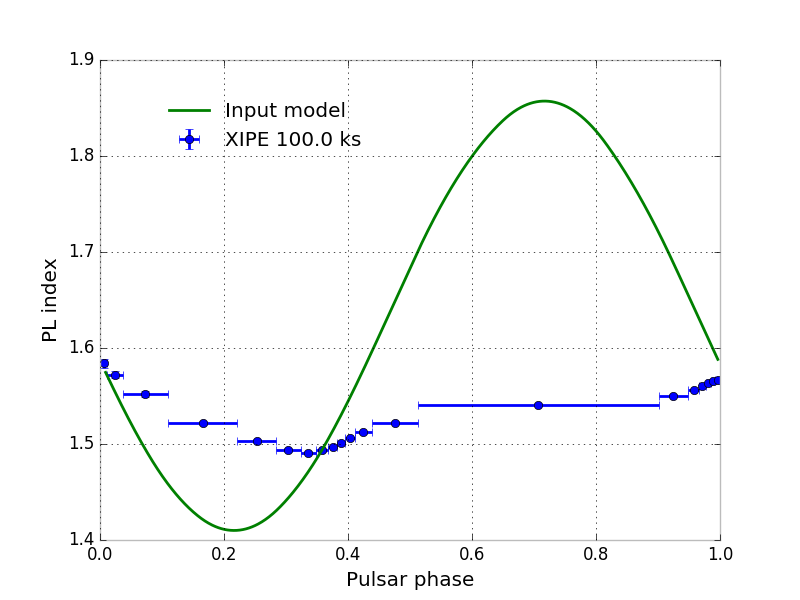
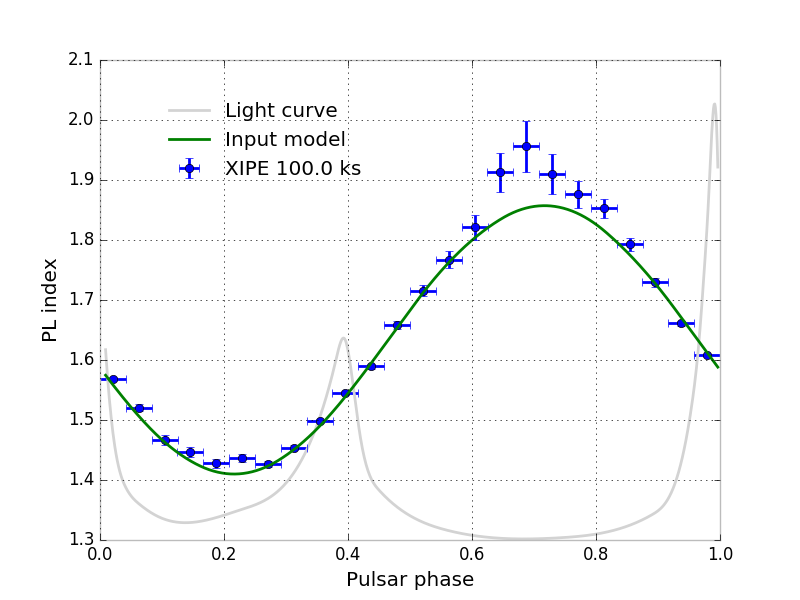
Crab pulsar example revamped.

diff --git a/ximpol/examples/crab_pulsar.py b/ximpol/examples/crab_pulsar.py
@@ -38,7 +38,8 @@ OUT_FILE_PATH_BASE = os.path.join(XIMPOL_DATA, 'crab_pulsar')
 EVT_FILE_PATH = '%s.fits' % OUT_FILE_PATH_BASE
 ANALYSIS_FILE_PATH = '%s_analysis.txt' % OUT_FILE_PATH_BASE
 SIM_DURATION = 100000.
-NUM_PHASE_BINS = 20
+NUM_PHASE_BINS = 25
+EQP_BINNING = False
 PHASE_BINNING = None
 E_BINNING = [1., 10.]
 OUTPUT_FOLDER = os.path.join(XIMPOL_DOC, 'figures', 'showcase')
@@ -68,11 +69,13 @@ def _phase_binning():
     """Read the input event file and create an equipopulated binning in the
     pulsar phase.
     """
-    evt_file = xEventFile(EVT_FILE_PATH)
-    phase = evt_file.event_data['PHASE']
-    bins = xEventBinningBase.equipopulated_binning(NUM_PHASE_BINS, phase, 0, 1)
-    logger.info('Phase binning: %s' % bins)
-    return bins
+    if EQP_BINNING:
+        evt_file = xEventFile(EVT_FILE_PATH)
+        phase = evt_file.event_data['PHASE']
+        return xEventBinningBase.equipopulated_binning(NUM_PHASE_BINS, phase,
+                                                       0., 1.)
+    else:
+        return numpy.linspace(0., 1., NUM_PHASE_BINS)
 
 
 def generate():
@@ -128,26 +131,27 @@ def plot(save=False):
     """
     sim_label = 'XIPE %s ks' % (SIM_DURATION/1000.)
     mod_label = 'Input model'
-    lc_label = 'Input PL norm.'
+    lc_label = 'Light curve'
     _phase, _phase_err, _pol_deg, _pol_deg_err, _pol_angle,\
         _pol_angle_err, _index, _index_err, _norm,\
         _norm_err = numpy.loadtxt(ANALYSIS_FILE_PATH, unpack=True)
     plt.figure('Polarization degree')
+    pl_normalization_spline.plot(scale=0.12, show=False, color='lightgray',
+                                 label=lc_label)
     plt.errorbar(_phase, _pol_deg, xerr=_phase_err, yerr=_pol_deg_err, fmt='o',
                  label=sim_label)
     pol_degree_spline.plot(show=False, label=mod_label)
-    pl_normalization_spline.plot(scale=0.09, show=False, color='lightgray',
-                                 label=lc_label)
-    plt.axis([None, None, 0., 0.4])
+    plt.axis([0., 1., 0., 0.5])
     plt.legend(bbox_to_anchor=(0.45, 0.95))
     if save:
         save_current_figure('crab_polarization_degree', OUTPUT_FOLDER, False)
     plt.figure('Polarization angle')
+    pl_normalization_spline.plot(scale=0.4, offset=1.25, show=False,
+                                 color='lightgray', label=lc_label)
     plt.errorbar(_phase, _pol_angle, xerr=_phase_err, yerr=_pol_angle_err,
                  fmt='o', label=sim_label)
     pol_angle_spline.plot(show=False, label=mod_label)
-    pl_normalization_spline.plot(scale=0.6, offset=1.25, show=False,
-                                 color='lightgray', label=lc_label)
+    plt.axis([0., 1., 1.25, 3.])
     plt.legend(bbox_to_anchor=(0.45, 0.95))
     if save:
         save_current_figure('crab_polarization_angle', OUTPUT_FOLDER, False)
@@ -155,13 +159,17 @@ def plot(save=False):
     plt.errorbar(_phase, _norm, xerr=_phase_err, yerr=_norm_err, fmt='o',
                  label=sim_label)
     pl_normalization_spline.plot(show=False, label=mod_label)
+    plt.axis([0., 1., None, None])
     plt.legend(bbox_to_anchor=(0.45, 0.95))
     if save:
         save_current_figure('crab_pl_norm', OUTPUT_FOLDER, False)
     plt.figure('PL index')
+    pl_normalization_spline.plot(scale=0.18, offset=1.3, show=False,
+                                 color='lightgray', label=lc_label)
     plt.errorbar(_phase, _index, xerr=_phase_err, yerr=_index_err, fmt='o',
                  label=sim_label)
     pl_index_spline.plot(show=False, label=mod_label)
+    plt.axis([0., 1., 1.3, 2.1])
     plt.legend(bbox_to_anchor=(0.45, 0.95))
     if save:
         save_current_figure('crab_pl_index', OUTPUT_FOLDER, False)
@@ -183,4 +191,4 @@ def run(save_plots=False):
 
 
 if __name__ == '__main__':
-    run(True)
+    run(save_plots=True)

diff --git a/doc/showcase.rst b/doc/showcase.rst
@@ -109,11 +109,14 @@ Full source model definition in `ximpol/config/crab_pulsar.py
 .. warning:: We should add all the proper references here.
 
 The input model consists of tabulated models for the phase-resolved
-polarization angle and degree and spectral parameters. For any specific phase
-value the polarization angle and degree are energy-independent (and, in the
-absence of X-ray data, we just assume that they are the same as the values
-measured in optical) and the spectral model is a simple power law (with the
-normalization and spectra depending on the phase).
+polarization angle and degree and spectral parameters.
+For any specific phase value the polarization angle and degree are
+energy-independent (and, in the absence of X-ray data, we just assume that
+they are the same as the values measured in optical) and the spectral model is
+a simple power law (with the normalization and spectra depending on the phase).
+The sinusoidal parametrization of the power-law index as a function of the
+pulsar phase is somewhat silly, but from our prospective is a good test
+of the simulation chain.
 
 The input spatial model is simply a point source.
 
@@ -129,14 +132,18 @@ pulsar---not the nebula. Simulating the Crab complex can surely be done within
 the current capabilities of the framework, but for this particular example
 we did not want to make the downstream analysis too complicated.)
 
-We splitted the sample into 20 equipopulated phase bins and created counts
-spectra (PHA1 files) and modulation cubes for each of the phase bins.
+We splitted the sample into 20 phase bins and created counts spectra (i.e.,
+PHA1 files) and modulation cubes for each of the phase bins.
 
 We fitted the count spectra in each phase bin with XSPEC, and the fitted
-normalization is tracking, as expected, the input model, as shown in the
-figure below.
+parameters track reasonably well the input model. We might be seeing a slight
+bias in the values of the spectral index toward sistematically higher values,
+but overall things do look good.
 
 .. image:: figures/showcase/crab_pl_norm.png
+   :width: 75%
+   :align: center
+.. image:: figures/showcase/crab_pl_index.png
    :width: 75%
    :align: center
 
@@ -145,6 +152,8 @@ We measure the average polarization degree and angle in each phase bin
 again, model and simulation agree well across all the phase values.
 
 .. image:: figures/showcase/crab_polarization_degree.png
-   :width: 49.6%
+   :width: 75%
+   :align: center
 .. image:: figures/showcase/crab_polarization_angle.png
-   :width: 49.6%
+   :width: 75%
+   :align: center

diff --git a/doc/release_notes.rst b/doc/release_notes.rst
@@ -5,6 +5,8 @@ Release notes
 * A few tweaks and some cleanup.
 * Optional scale and offset parameters added to the plot() method for the
   univariates splines.
+* Bug fix for issue #97.
+* Crab pulsar example revamped.
 
 
 *ximpol (0.37.1) - Tue, 15 Mar 2016 17:10:54 -0700*
